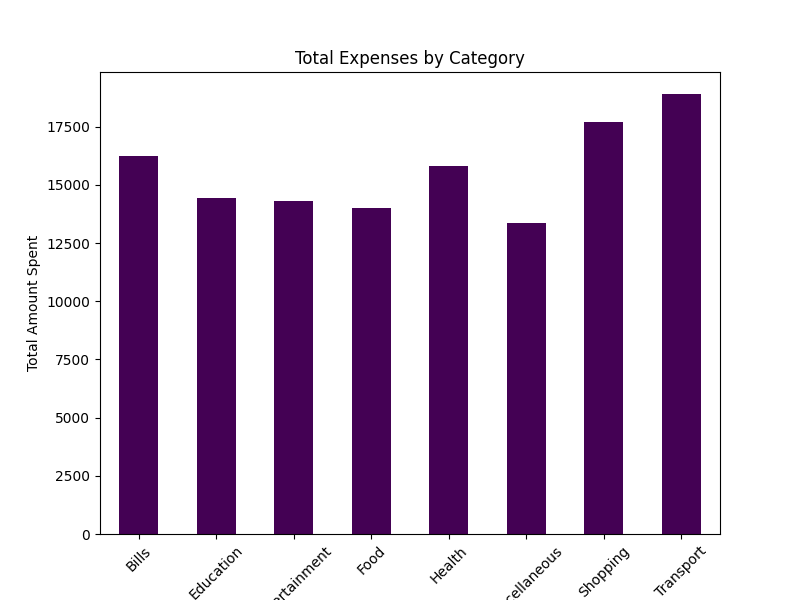
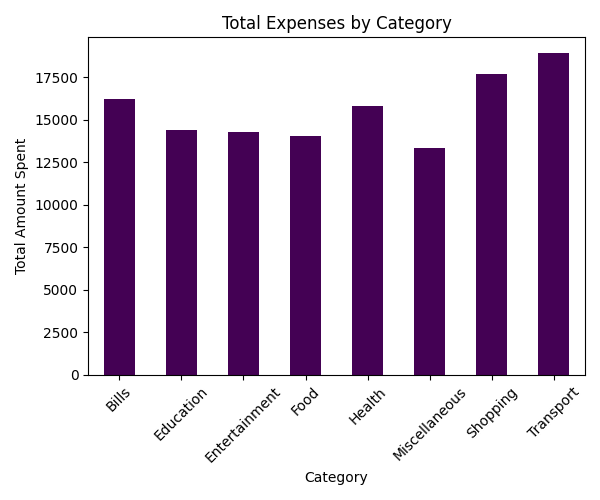
analysis page formatting adjusted

diff --git a/expensetracker/frontend/src/components/Analysis/index.jsx b/expensetracker/frontend/src/components/Analysis/index.jsx
@@ -1,11 +1,10 @@
-import React, { useEffect, useState } from "react";
+import React, { useState, useEffect } from "react";
 import MainHeader from "../MainHeader";
 import Footer from "../Footer/Footer";
 
 const Analysis = () => {
   const [loading, setLoading] = useState(true);
 
-  // You can remove the fetch logic for output.txt if it's not needed
   useEffect(() => {
     // Set loading state to false once everything is loaded (optional)
     setLoading(false);
@@ -14,24 +13,50 @@ const Analysis = () => {
   return (
     <>
       <MainHeader />
-      <div className="analysis-cont">
-        <h2>Expense Analysis</h2>
+      <div className="analysis-cont" style={{ textAlign: "center", marginTop: "40px" }}>
+        {/* Center align the heading */}
+        <h2 style={{ fontSize: "2rem", fontWeight: "bold", marginBottom: "30px" }}>
+          Expense Tracker - Analysis
+        </h2>
+
         {/* Display loading message while data is being fetched */}
         {loading && <p>Loading analysis...</p>}
 
-        {/* Show the bar chart */}
-        <img
-          src="/bar_chart.png"
-          alt="Expense Bar Chart"
-          style={{ maxWidth: "100%", marginTop: "20px" }}
-        />
-        
-        {/* Show the pie chart */}
-        <img
-          src="/pie_chart.png"
-          alt="Expense Pie Chart"
-          style={{ maxWidth: "100%", marginTop: "20px" }}
-        />
+        {/* Flex container for charts with increased gap between them */}
+        <div className="charts-container" style={{ display: 'flex', justifyContent: 'center', gap: '80px', alignItems: 'center' }}>
+          {/* Bar Chart */}
+          <img
+            src="/bar_chart.png"
+            alt="Expense Bar Chart"
+            style={{
+              width: '35%', // Resize the charts to smaller size
+              marginTop: '20px',
+              borderRadius: '10px',
+              boxShadow: '0 4px 8px rgba(0, 0, 0, 0.1)',
+              maxWidth: '100%',
+              backgroundColor: 'rgba(255, 255, 255, 0.7)',  // Medium opacity white background
+              opacity: 1  // Ensure it's not fully transparent
+            }}
+          />
+          
+          {/* Pie Chart */}
+          <img
+            src="/pie_chart.png"
+            alt="Expense Pie Chart"
+            style={{
+              width: '35%', // Resize the charts to smaller size
+              marginTop: '20px',
+              borderRadius: '10px',
+              boxShadow: '0 4px 8px rgba(0, 0, 0, 0.1)',
+              maxWidth: '100%',
+              backgroundColor: 'rgba(255, 255, 255, 0.7)',  // Medium opacity white background
+              opacity: 1  // Ensure it's not fully transparent
+            }}
+          />
+        </div>
+
+        {/* Gap between charts and footer */}
+        <div style={{ marginBottom: '30px' }}></div>
       </div>
       <Footer />
     </>

diff --git a/expensetracker/ml-model/training.py b/expensetracker/ml-model/training.py
@@ -11,7 +11,7 @@ OUTPUT_PATH = "../frontend/public/output.txt"
 BAR_CHART_PATH = "../frontend/public/bar_chart.png"
 PIE_CHART_PATH = "../frontend/public/pie_chart.png"
 
-# Load the dataset
+# Load dataset
 df = pd.read_csv("expense_data.csv", parse_dates=["Date"])
 
 # Encode categorical data
@@ -28,23 +28,27 @@ with open(OUTPUT_PATH, "w") as f:
     f.write("Expense Clustering Analysis\n")
     f.write("==========================\n\n")
     f.write(df[["Category", "Amount", "Cluster"]].to_string(index=False))
-    f.write("\n\n Analysis Complete! Data saved to output.txt")
+    f.write("\n\nAnalysis Complete! Data saved to output.txt")
 
-# Save bar chart
-plt.figure(figsize=(8, 6))
+# Save bar chart with a lighter or transparent background
+plt.figure(figsize=(6, 5))
 df.groupby("Category")['Amount'].sum().plot(kind='bar', colormap='viridis')
 plt.title("Total Expenses by Category")
 plt.xlabel("Category")
 plt.ylabel("Total Amount Spent")
 plt.xticks(rotation=45)
-plt.savefig(BAR_CHART_PATH)
+plt.gcf().patch.set_facecolor('none')  # Set background to be transparent (or adjust opacity here)
+plt.tight_layout()
+plt.savefig(BAR_CHART_PATH, transparent=True)  # Save with transparent background
 
-# Save pie chart
-plt.figure(figsize=(8, 6))
+# Save pie chart with a lighter or transparent background
+plt.figure(figsize=(6, 5))
 df.groupby("Category")['Amount'].sum().plot(kind='pie', autopct='%1.1f%%', colormap='viridis')
 plt.title("Expense Distribution by Category")
 plt.ylabel("")  # Hide y-label
-plt.savefig(PIE_CHART_PATH)  # Save pie chart as a separate file
+plt.gcf().patch.set_facecolor('none')  # Set background to be transparent (or adjust opacity here)
+plt.tight_layout()
+plt.savefig(PIE_CHART_PATH, transparent=True)  # Save with transparent background
 
 print(f"Output saved at: {OUTPUT_PATH}")
 print(f"Bar chart saved at: {BAR_CHART_PATH}")
